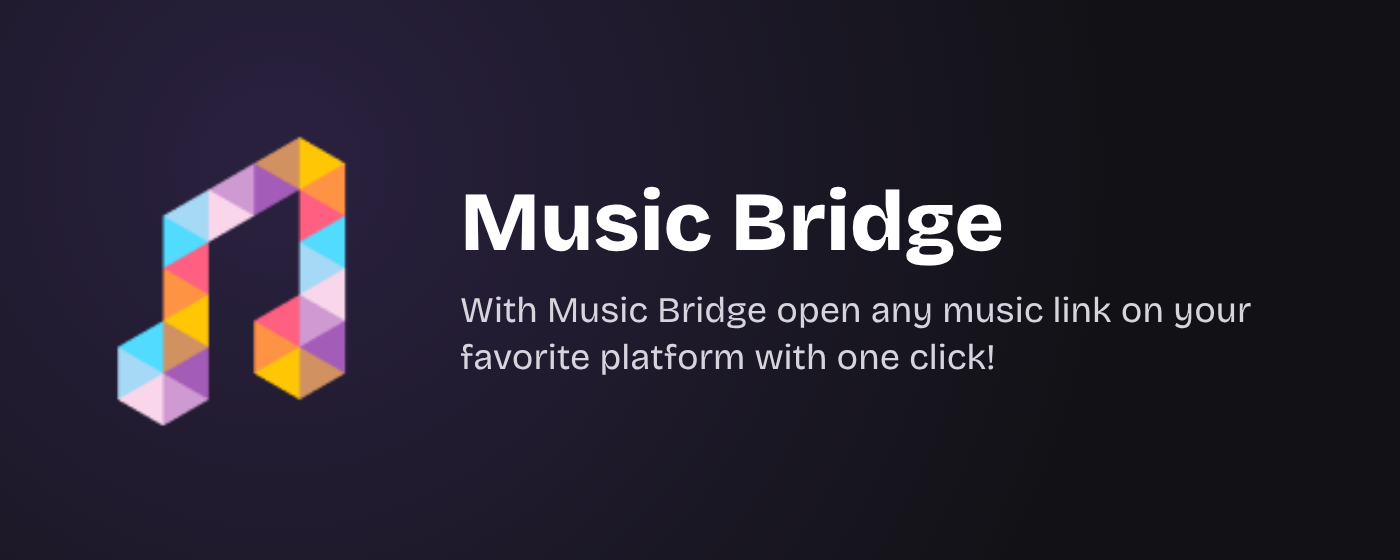
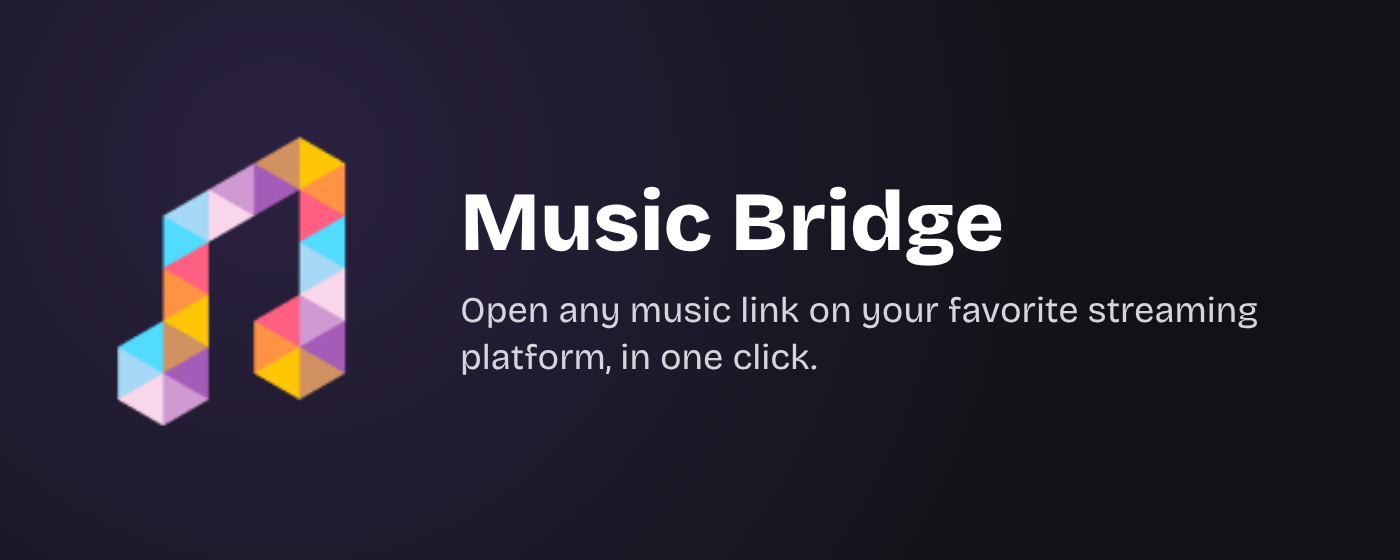
feat(music-bridge): drop Napster and rewrite the store texts
Napster is no longer offered nor redirected from; a saved Napster choice
falls back to Spotify. The Music Bridge description is rewritten in
English and French (manifest, README, store listing, promo tiles), and
the dzr-link listing mentions that Firefox closes the tab left behind.

Changed region(s): [[0.3071, 0.5161, 0.9214, 0.5768], [0.3071, 0.6071, 0.7064, 0.6679]]

diff --git a/extensions/music-bridge/utils/platforms.ts b/extensions/music-bridge/utils/platforms.ts
@@ -1,4 +1,4 @@
-export const PLATFORM_IDS = ['amazonMusic', 'appleMusic', 'deezer', 'napster', 'pandora', 'soundcloud', 'spotify', 'tidal', 'youtube', 'youtubeMusic'] as const;
+export const PLATFORM_IDS = ['amazonMusic', 'appleMusic', 'deezer', 'pandora', 'soundcloud', 'spotify', 'tidal', 'youtube', 'youtubeMusic'] as const;
 
 /** Platform IDs, as the Odesli API names them */
 export type PlatformId = (typeof PLATFORM_IDS)[number];
@@ -26,12 +26,6 @@ export const platforms: Record<PlatformId, Platform> = {
     name: 'Deezer',
     url: 'https://www.deezer.com',
     hasNativeAppLink: true,
-  },
-  napster: {
-    name: 'Napster',
-    // Odesli now links to play.napster.com
-    url: 'https://play.napster.com',
-    aliases: ['https://web.napster.com'],
   },
   pandora: {
     name: 'Pandora',

diff --git a/extensions/music-bridge/tests/redirect.test.ts b/extensions/music-bridge/tests/redirect.test.ts
@@ -75,10 +75,6 @@ describe('getRedirectUrl', () => {
     expect(getRedirectUrl(href, { platform: 'tidal', openInApp: false }, WINDOWS)).toBeUndefined();
   });
 
-  it.each(['https://play.napster.com/track/tra.1', 'https://web.napster.com/track/tra.1'])('stays on Napster pages (%s) when Napster is chosen', href => {
-    expect(getRedirectUrl(href, { platform: 'napster', openInApp: false }, WINDOWS)).toBeUndefined();
-  });
-
   it('does not take another host with the same prefix for the platform', () => {
     expect(serviceParams(getRedirectUrl('https://tidal.com.example/track/1', { platform: 'tidal', openInApp: false }, WINDOWS))).toEqual({
       url: 'https://tidal.com.example/track/1',

diff --git a/extensions/music-bridge/entrypoints/content.ts b/extensions/music-bridge/entrypoints/content.ts
@@ -21,10 +21,6 @@ export default defineContentScript({
     'https://www.pandora.com/TR:*',
     'https://www.pandora.com/AL:*',
     'https://music.amazon.com/albums/*',
-    'https://play.napster.com/track/*',
-    'https://play.napster.com/album/*',
-    'https://web.napster.com/track/*',
-    'https://web.napster.com/album/*',
   ],
   runAt: 'document_start',
   async main() {

diff --git a/extensions/music-bridge/store/README.md b/extensions/music-bridge/store/README.md
@@ -23,52 +23,40 @@ Entertainment (Divertissement)
 
 The manifest takes them from [`public/_locales`](../public/_locales).
 
-- **EN**: Music Bridge. With Music Bridge open any music link on your favorite platform with one click!
-- **FR**: Music Bridge. Avec Music Bridge ouvrez n'importe quel lien de musique sur votre plateforme préférée en un clic !
+- **EN**: Music Bridge. Open any music link on your favorite streaming platform, in one click.
+- **FR**: Music Bridge. Ouvrez n'importe quel lien de musique sur votre plateforme de streaming préférée, en un clic.
 
 ## Description
 
 ### English
 
-When you want to listen to music from a streaming platform that is not the one you are using, you must open the link to retrieve the title information and then go find it on your music streaming platform. Many manipulations to listen to your song!
-With Music Bridge, you just have to click on this link to listen directly to the music on your platform!
+Found a song on a streaming platform you don't use? Music Bridge opens it on yours.
 
-Supported platforms:
+Pick your platform once in the extension options. From then on, every track or album link from another platform takes you straight to the same music on yours: no more copying the title and searching for it.
 
-- Amazon Music
-- Apple Music
-- Deezer
-- Napster
-- Pandora
-- SoundCloud (only redirect to)
-- Spotify
-- Tidal
-- YouTube (only redirect to)
-- YouTube Music
+- Links from Amazon Music, Apple Music, Deezer, Pandora, Spotify, Tidal and YouTube Music open on any of them, or on SoundCloud and YouTube.
+- Open the music in your platform's desktop app (Apple Music, Deezer, Spotify), and close the tab left behind if you like.
+- Available in English and French.
 
-**Chrome Web Store**: the listing may not name more than 5 other brands, so replace the list with:
+Privacy: the address of the music page you open is sent to Music Bridge's redirect service, which finds the same music with the Odesli (song.link) API. Nothing else is collected, and your settings stay in your browser.
+
+**Chrome Web Store**: the listing may not name more than 5 other brands, so replace the first item of the list with:
 
 > Works with the major music streaming platforms (Apple Music, Spotify, Deezer, YouTube Music, Amazon Music, etc.).
 
 ### Français
 
-Lorsque vous souhaitez écouter une musique provenant d'une plateforme de streaming qui n'est pas celle que vous utilisez, vous devez ouvrir le lien pour récupérer les informations sur le titre puis aller le trouver sur votre plateforme de streaming musical. Beaucoup de manipulations pour écouter votre chanson !
-Avec Music Bridge, il vous suffit de cliquer sur ce lien pour écouter directement la musique sur votre plateforme !
+Vous tombez sur une chanson d'une plateforme de streaming que vous n'utilisez pas ? Music Bridge l'ouvre sur la vôtre.
 
-Plateformes prises en charge :
+Choisissez votre plateforme une fois dans les options de l'extension. Ensuite, chaque lien de titre ou d'album d'une autre plateforme vous emmène directement vers la même musique sur la vôtre : plus besoin de copier le titre pour le chercher.
 
-- Amazon Music
-- Apple Music
-- Deezer
-- Napster
-- Pandora
-- SoundCloud (uniquement redirection vers)
-- Spotify
-- Tidal
-- YouTube (uniquement redirection vers)
-- YouTube Music
+- Les liens d'Amazon Music, Apple Music, Deezer, Pandora, Spotify, Tidal et YouTube Music s'ouvrent sur n'importe laquelle d'entre elles, ou sur SoundCloud et YouTube.
+- Ouvrez la musique dans l'application de bureau de votre plateforme (Apple Music, Deezer, Spotify), et fermez l'onglet resté ouvert si vous le souhaitez.
+- Disponible en anglais et en français.
 
-**Chrome Web Store** : la fiche ne peut pas citer plus de 5 autres marques, remplacer la liste par :
+Confidentialité : l'adresse de la page de musique que vous ouvrez est envoyée au service de redirection de Music Bridge, qui trouve la même musique avec l'API Odesli (song.link). Rien d'autre n'est collecté, et vos réglages restent dans votre navigateur.
+
+**Chrome Web Store** : la fiche ne peut pas citer plus de 5 autres marques, remplacer le premier point de la liste par :
 
 > Fonctionne avec les principales plateformes de streaming musical (Apple Music, Spotify, Deezer, YouTube Music, Amazon Music, etc.).
 
@@ -96,13 +84,13 @@ Plateformes prises en charge :
 ### English
 
 - **storage**: Saves the user's settings: the chosen streaming platform, and whether to open links in its desktop app and close the tab afterwards. The settings stay in the browser.
-- **Host permission** (content script on the track and album pages of Spotify, Deezer, Apple Music, YouTube Music, Tidal, Pandora, Amazon Music and Napster): The content script runs on the track and album pages of the supported streaming platforms only. It reads the page address and redirects to the same music on the platform the user chose, through the extension's redirect service. It does not read page content.
+- **Host permission** (content script on the track and album pages of Spotify, Deezer, Apple Music, YouTube Music, Tidal, Pandora and Amazon Music): The content script runs on the track and album pages of the supported streaming platforms only. It reads the page address and redirects to the same music on the platform the user chose, through the extension's redirect service. It does not read page content.
 - **Remote code**: No. The redirect service answers with an HTTP redirect, never code run by the extension.
 
 ### Français
 
 - **storage** : enregistre les réglages de l'utilisateur : la plateforme de streaming choisie, et s'il faut ouvrir les liens dans son application de bureau puis fermer l'onglet. Les réglages restent dans le navigateur.
-- **Autorisation d'hôte** (script de contenu sur les pages de titres et d'albums de Spotify, Deezer, Apple Music, YouTube Music, Tidal, Pandora, Amazon Music et Napster) : le script de contenu ne s'exécute que sur les pages de titres et d'albums des plateformes prises en charge. Il lit l'adresse de la page et redirige vers la même musique sur la plateforme choisie par l'utilisateur, via le service de redirection de l'extension. Il ne lit pas le contenu de la page.
+- **Autorisation d'hôte** (script de contenu sur les pages de titres et d'albums de Spotify, Deezer, Apple Music, YouTube Music, Tidal, Pandora et Amazon Music) : le script de contenu ne s'exécute que sur les pages de titres et d'albums des plateformes prises en charge. Il lit l'adresse de la page et redirige vers la même musique sur la plateforme choisie par l'utilisateur, via le service de redirection de l'extension. Il ne lit pas le contenu de la page.
 - **Code distant** : non. Le service de redirection répond par une redirection HTTP, jamais par du code exécuté par l'extension.
 
 ## Privacy

diff --git a/extensions/dzr-link/store/README.md b/extensions/dzr-link/store/README.md
@@ -35,6 +35,7 @@ Clicked a Deezer link and landed in your browser? This extension opens it in the
 - Works with every deezer.com link: tracks, albums, playlists, artists, podcasts.
 - Links with or without a language in the address (deezer.com/fr/…, deezer.com/pt-br/…) are supported.
 - Nothing to set up: install it and open a Deezer link.
+- On Firefox, the tab left behind closes on its own.
 - No tracking: the extension sends no data to its developer.
 
 Requires the Deezer desktop app. Not available on ChromeOS, which has no Deezer desktop app.
@@ -46,6 +47,7 @@ Vous cliquez sur un lien Deezer et vous vous retrouvez dans le navigateur ? Cett
 - Fonctionne avec tous les liens deezer.com : titres, albums, playlists, artistes, podcasts.
 - Les liens avec ou sans langue dans l'adresse (deezer.com/fr/…, deezer.com/pt-br/…) sont pris en charge.
 - Rien à configurer : installez-la, puis ouvrez un lien Deezer.
+- Sur Firefox, l'onglet resté ouvert se ferme tout seul.
 - Aucun pistage : l'extension n'envoie aucune donnée à son développeur.
 
 Nécessite l'application Deezer pour ordinateur. Non disponible sur ChromeOS, où il n'y a pas d'application Deezer.

diff --git a/extensions/music-bridge/README.md b/extensions/music-bridge/README.md
@@ -1,9 +1,8 @@
 # Music Bridge
 
-**With Music Bridge open any music link on your favorite platform with one click!**
+**Open any music link on your favorite streaming platform, in one click.**
 
-When you want to listen to music from a streaming platform that is not the one you are using, you must open the link to retrieve the title information and then go find it on your music streaming platform. Many manipulations to listen to your song!
-With Music Bridge, you just have to click on this link to listen directly to the music on your platform!
+Found a song on a streaming platform you don't use? Music Bridge opens it on yours: pick your platform once in the options, and every track or album link from another platform takes you straight to the same music on yours.
 
 Available for:
 
@@ -18,12 +17,11 @@ Made with the [Odesli](https://odesli.co/) API, through the [music-bridge-redire
 - Amazon Music
 - Apple Music
 - Deezer
-- Napster
 - Pandora
-- SoundCloud (only redirection to)
+- SoundCloud (as a destination only)
 - Spotify
 - Tidal
-- YouTube (only redirection to)
+- YouTube (as a destination only)
 - YouTube Music
 
 ## How it works

diff --git a/.changeset/music-bridge-texts.md b/.changeset/music-bridge-texts.md
@@ -1,0 +1,5 @@
+---
+'music-bridge': minor
+---
+
+Drop Napster, and rewrite the description in English and French.
